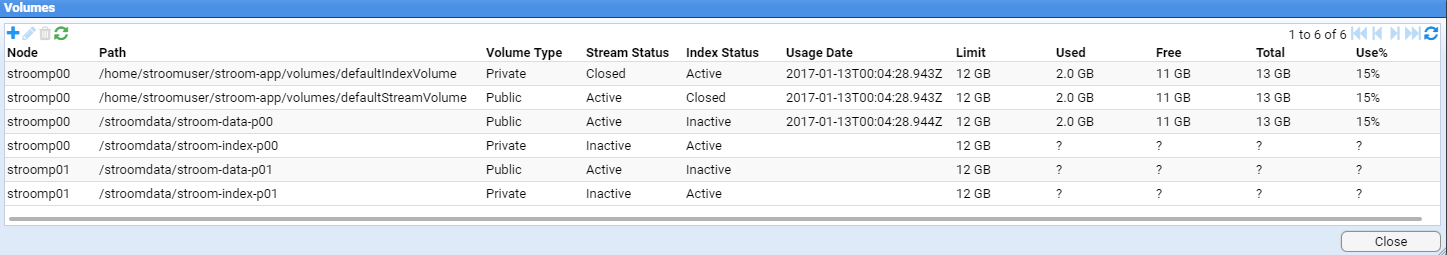
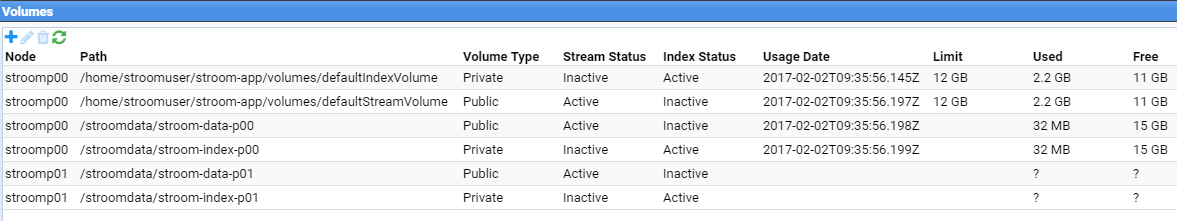
Update for 5.0-beta.9 Application release changes and caveat message re changing screen captures

diff --git a/HOWTOs/Install/InstallApplicationHowTo.md b/HOWTOs/Install/InstallApplicationHowTo.md
@@ -43,13 +43,14 @@ Bye
 If there are any errors, correct them.
 
 ## Get the Software
-The following will gain the identified, in this case release `5.0-beta.8`, Stroom Application software release from github, then deploy it. You should regularly monitor the site for newer releases.
+The following will gain the identified, in this case release `5.0-beta.9`, Stroom Application software release from github, then deploy it. You should regularly monitor the site for newer releases.
 
 ```bash
 sudo -i -u stroomuser
-App=5.0-beta.8
+App=5.0-beta.9
 wget https://github.com/gchq/stroom/releases/download/v${App}/stroom-app-distribution-${App}-bin.zip
 unzip stroom-app-distribution-${App}-bin.zip
+find stroom-app -name '*.sh' -exec chmod 755 {} \+;
 chmod 750 stroom-app
 ```
 

diff --git a/HOWTOs/StroomHowTos.md b/HOWTOs/StroomHowTos.md
@@ -2,9 +2,9 @@
 
 This is a series of *HOWTOs* that are designed to get one started with Stroom. The *HOWTOs* are broken down into different functional concepts or areas of Stroom.
 
-Last Update: Burn Alting, 29 Jan 2017
-
-- Initial release
+**NOTE:** These *HOWTOs* will match the development of Stroom and as a result, various elements will be updated over time, including screen captures.
+In some instances, screen captures will contain timestamps and so you may note inconsistent date or time movements within a complete HOWTO,
+although if a sequence of captures is contained within a section of a document, they all will be replaced.
 
 ## Installation
 
